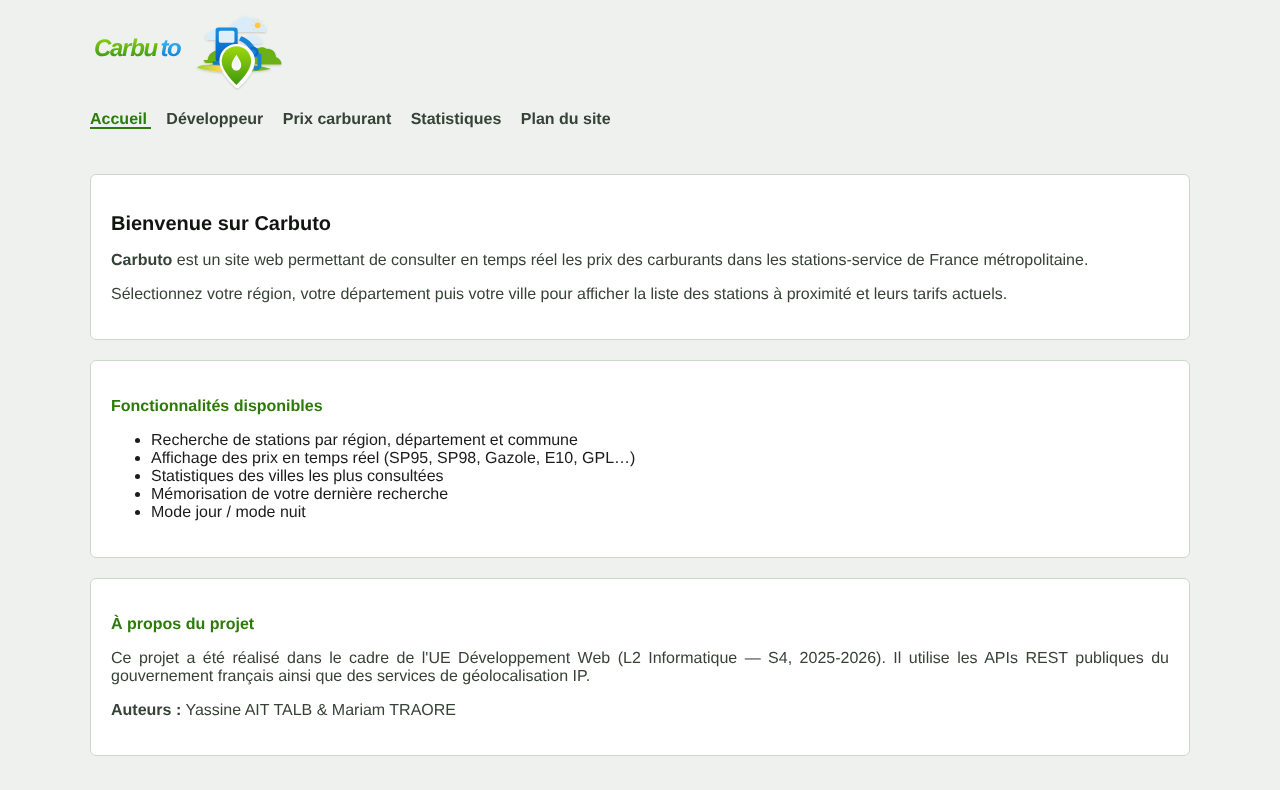
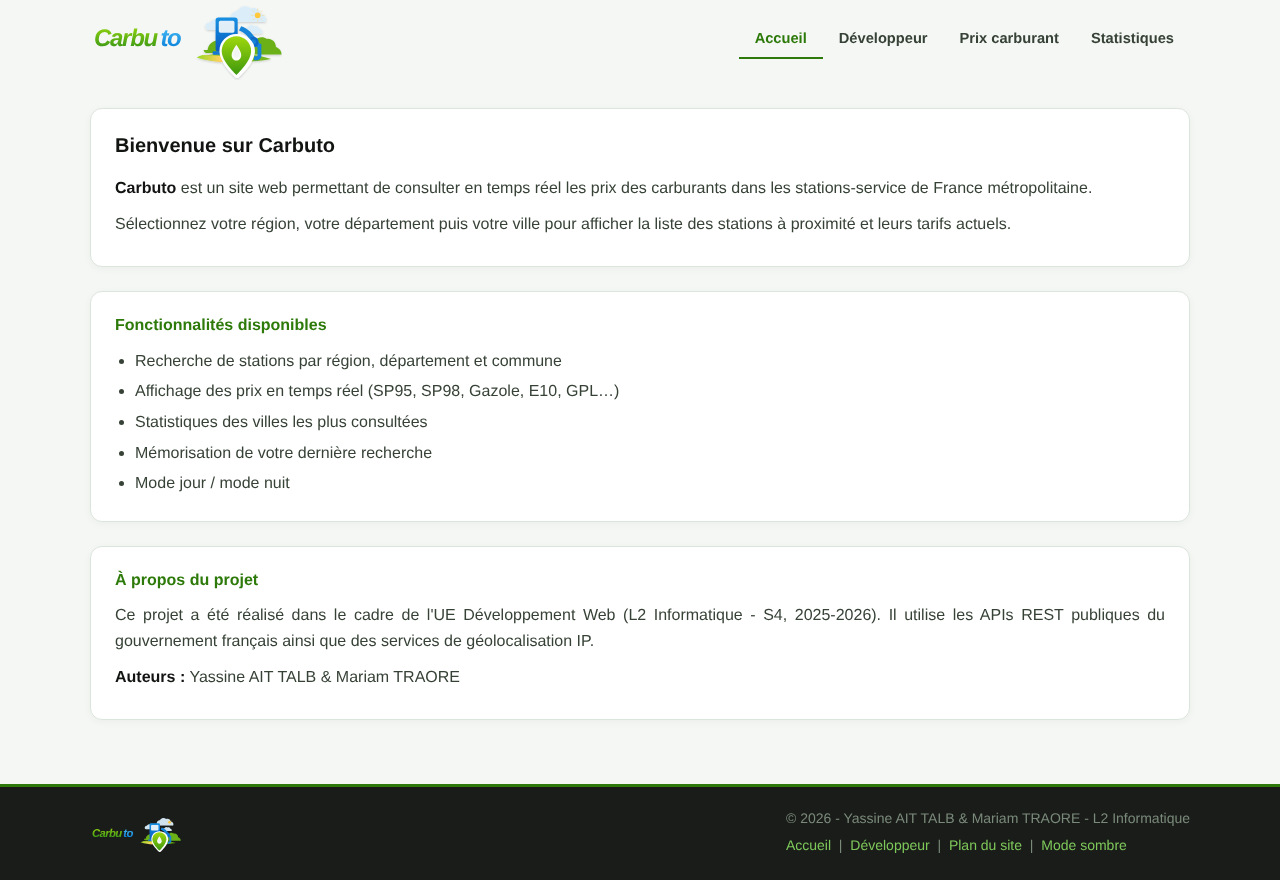
readme : plan du site, statistiques, lancement, captures de la version finale

diff --git a/README.md b/README.md
@@ -1,19 +1,29 @@
 # Carbuto
 
-Site web en PHP qui devait permettre de consulter les prix des carburants dans les stations-service en France. Dans cette version du dépôt, seules la page d'accueil et la page « Développeur » sont présentes : un film aléatoire du studio Ghibli et la géolocalisation du visiteur à partir de son adresse IP. Les autres liens du menu (prix carburant, statistiques, plan du site) pointent vers `#` dans ce dossier.
+Site web en PHP qui permet de consulter les prix des carburants dans les stations-service de France métropolitaine. On choisit une région sur une carte, puis un département et une ville, et le site affiche les stations avec leurs prix. Il y a aussi une page de statistiques sur les villes les plus consultées, un plan du site et une page « Développeur » (film aléatoire et géolocalisation par adresse IP).
 
 Projet réalisé en L2 Informatique (S4, 2025-2026), dans l'UE Développement Web, à deux avec Mariam Traore.
+
+Versions en ligne indiquées dans le projet : https://aittalb.arbusmegacorp.top/ et https://traore.arbusmegacorp.top/
 
 ## Technos
 
 - PHP, HTML, CSS (deux thèmes : classique et sombre)
-- API Ghibli (https://ghibliapi.vercel.app/films)
-- API REST IP2Location (https://api.ip2location.io)
+- Cookies pour le thème et la dernière recherche
+- Fichiers CSV (villes, départements, régions, historique des consultations) et un fichier XML (infos sur les carburants)
+- API des prix des carburants (data.economie.gouv.fr)
+- API Ghibli (film aléatoire), avec `ressources/films.json` en secours
+- API REST IP2Location (géolocalisation par adresse IP)
+- Doxygen pour la documentation du code (`Doxyfile`, dossier `doc/`)
+
+Il n'y a pas de base de données à importer : tout est stocké dans les fichiers du dossier `ressources/`.
 
 ## Lancer le projet
 
-1. Copier `.env.example` en `.env` et mettre sa clé IP2Location dans `IP2LOCATION_KEY`.
-2. Lancer un serveur PHP depuis le dossier du projet :
+Il faut PHP (avec `allow_url_fopen` activé) et l'extension XML.
+
+1. Copier `.env.example` en `.env` et mettre sa clé IP2Location dans `IP2LOCATION_KEY`. Sans clé, le site marche mais la géolocalisation est désactivée.
+2. Lancer le serveur depuis la racine du projet :
 
 ```
 php -S localhost:8000
@@ -21,28 +31,48 @@ php -S localhost:8000
 
 3. Ouvrir http://localhost:8000/index.php
 
-Il faut que PHP puisse faire des requêtes HTTP (`allow_url_fopen`), car les deux API sont appelées avec `file_get_contents`.
+Le fichier `ressources/historique.csv` (consultations des villes) est créé tout seul à la première recherche d'une ville, le dossier `ressources/` doit donc être accessible en écriture. Il n'est pas publié dans le dépôt.
 
 ## Captures d'écran
 
-Page d'accueil, thème classique :
+Accueil (thème classique et thème sombre) :
 
 ![accueil classique](captures/accueil-classique.png)
 
-Page d'accueil, thème sombre :
-
 ![accueil sombre](captures/accueil-sombre.png)
 
-Page « Développeur » (film aléatoire et géolocalisation) : [À COMPLÉTER : capture]
+Plan du site :
+
+![plan du site](captures/plan-du-site.png)
+
+Statistiques des consultations (diagramme en barres et classement) :
+
+![statistiques classique](captures/statistiques-classique.png)
+
+![statistiques sombre](captures/statistiques-sombre.png)
+
+Prix des carburants (carte des régions) :
+
+![prix des carburants](captures/prix-carburants.png)
+
+Choix du département et de la ville :
+
+![département et ville](captures/prix-departement-ville.png)
+
+Les captures de la liste des stations et de la page « Développeur » ne sont pas là : elles demandent les API en ligne.
+
+[À COMPLÉTER : capture d'une liste de stations avec les prix]
+
+[À COMPLÉTER : capture de la page « Développeur » avec la géolocalisation]
 
 ## Ce que j'ai fait
 
 - la page d'accueil
-- la page du film aléatoire
+- la page « Développeur » : film aléatoire
 - le plan du site
 - le diagramme des statistiques de visites
 - la géolocalisation des visiteurs par adresse IP avec l'API REST IP2Location
 
 Mariam Traore a fait le reste.
 
-[À COMPLÉTER] le plan du site et le diagramme des statistiques ne sont pas dans ce dossier : ajouter les fichiers ou retirer ces deux lignes.
+Le dossier `rapport/` contient le rapport du projet (`rapport.pdf`).
